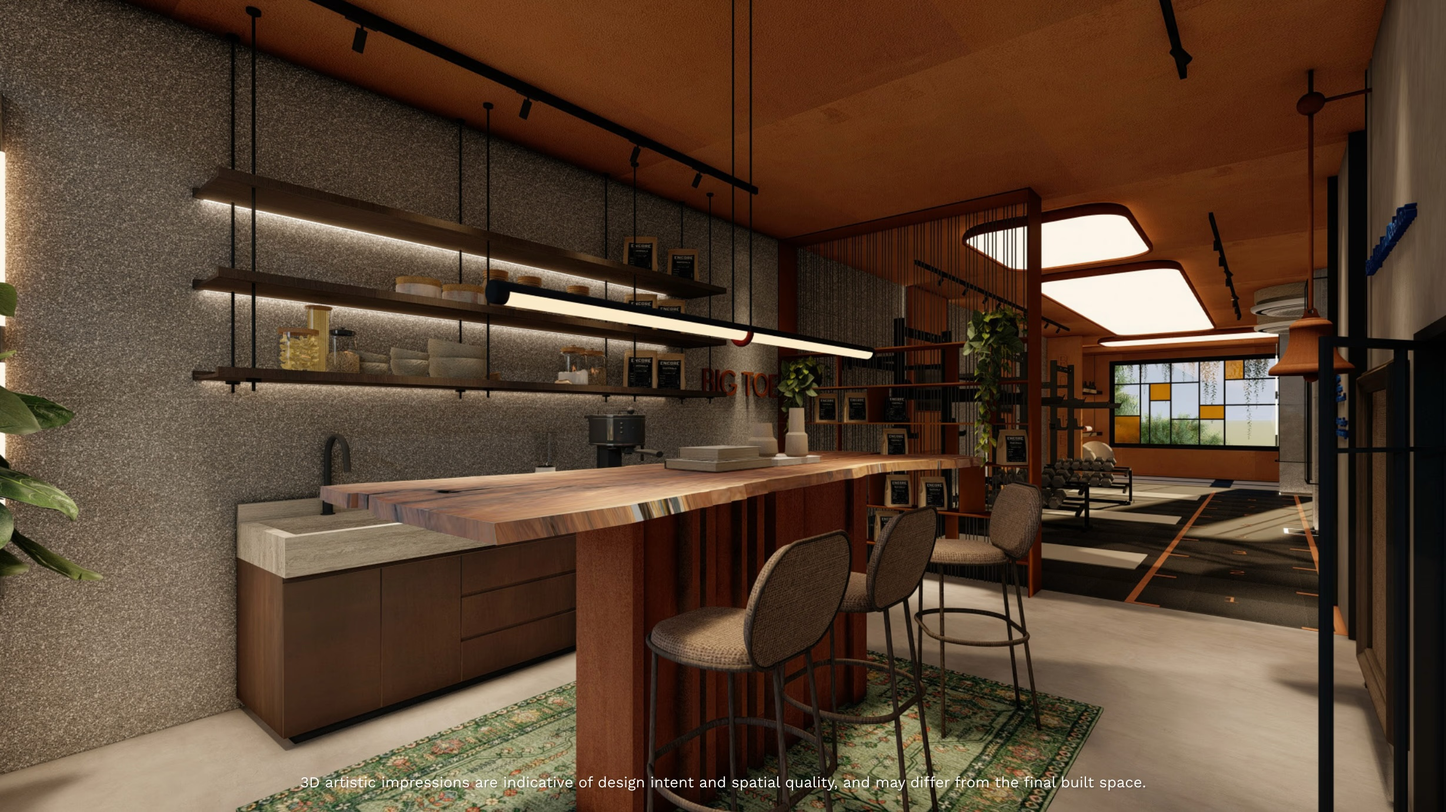
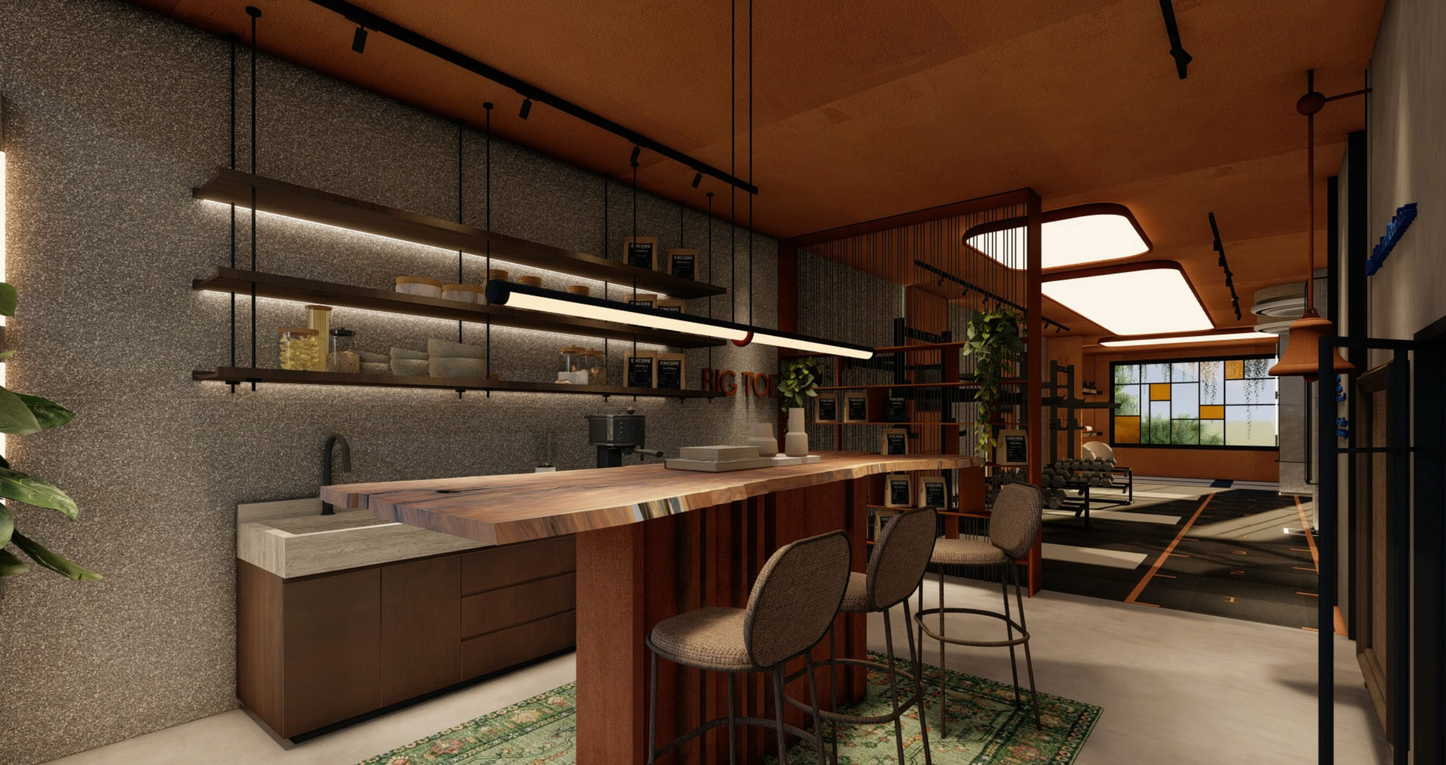
Crop the render captions; training floor on the coach card, hero keeps the coffee bar
- training-floor.jpg and coffee-bar-render.jpg: the "3D artistic
  impressions" caption cropped off the files (80px from the bottom).
- training-floor.jpg fills the "Your coach. Your plan." card and
  coffee-bar-render.jpg the "Keep the pizza." card; the hero is back on
  the coffee bar photograph.
- Both on the shot list as "replace with real photo".
- Phones request a wider image for these cards so the crop stays sharp.

diff --git a/components/home/HomeSections.tsx b/components/home/HomeSections.tsx
@@ -10,7 +10,6 @@ import { photoCard, softPill } from "@/components/site/styles";
 import { faq, faqGroups } from "@/content/faq";
 import { home } from "@/content/home";
 import { anchors } from "@/content/site";
-import space from "@/content/space-photos.json";
 import logoTagLight from "@/public/brand/logo-tag-light.png";
 
 /**
@@ -25,10 +24,9 @@ export function Hero() {
   const h = home.hero;
   return (
     <section className="relative h-svh min-h-150 overflow-hidden bg-navy text-offwhite">
-      {/* Phones: the frame runs 40% above the screen, so the middle of the photo (the coffee bar's logo wall, the
-          render's windows at the end of the floor) sits higher, clear of the words. */}
+      {/* Phones: the frame runs 40% above the screen, so the coffee bar's logo wall sits higher, clear of the words. */}
       <div className="absolute inset-x-0 -top-[40%] bottom-0 md:top-0">
-        <Photo shot={h.shot} space="hero" posClass={space.hero ? "object-[52%_50%] md:object-[50%_50%]" : "object-[16%_50%] md:object-[50%_55%]"} sizes="100vw" preload />
+        <Photo shot={h.shot} posClass="object-[16%_50%] md:object-[50%_55%]" sizes="100vw" preload />
       </div>
       {/* Solid navy behind the words, rising to clear at the top. */}
       <div aria-hidden className="absolute inset-x-0 bottom-0 h-[85%] bg-gradient-to-t from-navy from-45% via-navy/80 via-70% to-transparent md:h-[80%] md:from-35%" />
@@ -69,7 +67,7 @@ export function Pizza() {
     <section className="page-wrap section-space">
       <SectionText headline={p.headline} lines={[p.line]} />
       <FadeUp className={`mt-10 aspect-[4/5] md:mt-14 md:aspect-video ${photoCard}`}>
-        <Photo shot={p.shot} space="table" pos="60% 60%" sizes="(min-width: 1760px) 1600px, 100vw" />
+        <Photo shot={p.shot} space="table" pos="60% 60%" sizes="(min-width: 1760px) 1600px, (min-width: 768px) 100vw, 240vw" />
       </FadeUp>
     </section>
   );

diff --git a/content/site.ts b/content/site.ts
@@ -49,7 +49,7 @@ export const photo = {
   alt: "The BigToe coffee bar: the long wooden table and stools under pendant lamps, the training floor behind",
   /** BigToe's own 3D renders of the space (docs/photos/space/), for the slots where the space is the subject. */
   spaceAlt: {
-    hero: "The BigToe studio: the training floor, a render of the space",
+    coach: "The BigToe training floor, a render of the space",
     table: "The BigToe social table, a render of the space",
   },
   placeholder: (shot: string) => `Placeholder for the photo: ${shot}`,

diff --git a/components/method/MethodSections.tsx b/components/method/MethodSections.tsx
@@ -25,7 +25,8 @@ export function Coach() {
         <After>{c.after}</After>
       </SectionText>
       <FadeUp className={`aspect-[4/5] md:col-span-7 md:aspect-[5/4] ${photoCard}`}>
-        <Photo shot={c.shot} pos="70% 50%" sizes="(min-width: 768px) 60vw, 100vw" />
+        {/* The training-floor render until the real shot arrives: centred on the windows at the end of the floor. */}
+        <Photo shot={c.shot} space="coach" pos="56% 50%" sizes="(min-width: 768px) 60vw, 240vw" />
       </FadeUp>
     </section>
   );

diff --git a/components/site/Photo.tsx b/components/site/Photo.tsx
@@ -37,8 +37,7 @@ export function Photo({
       draggable={false}
       sizes={sizes}
       quality={75}
-      // A render's burned-in disclaimer runs along its bottom edge: enlarged 8% from the top, it falls outside the frame.
-      className={`object-cover ${render ? "origin-top scale-[1.08]" : ""} ${posClass ?? ""}`}
+      className={`object-cover ${posClass ?? ""}`}
       style={posClass ? undefined : { objectPosition: pos }}
     />
   );

diff --git a/CLAUDE.md b/CLAUDE.md
@@ -41,7 +41,7 @@ Built from the approved style tile (round seven, commit 6be62d3; the /style-tile
 - **Cards and photos:** 16px corners at 1440 (they scale with the spacing unit); the dials card off-white with a hairline navy border. Pills are fully rounded.
 - **Layout:** content in a column capped at 1600px and centred (`page-wrap`); the hero runs edge to edge; card rows run to the screen edge with the first card on the column (`page-edge`); `section-space` above and below every section.
 - **Logos:** only the hero shows the LogoTag (light, above the headline); the header, menu and footer show the plain BigToe logo.
-- **Photos:** every slot shows the coffee bar photo until the shoot, cropped per slot (`components/site/Photo.tsx`); the alt text names the shot it stands in for (`docs/shot-list.md`). **Space renders:** BigToe's own 3D renders go in `docs/photos/space/` (hero: `hero.*` or `training-floor.*`; table: `table.*` or `coffee-bar-render.*`), enlarged 8% from the top so their burned-in disclaimer falls outside the frame; `scripts/space-photos.mjs` (run by `dev` and `build`) copies them to `public/photos/space/` and writes `content/space-photos.json`, and the hero and the social-table card show them in place of the coffee bar. Renders only where the space is the subject, never for people.
+- **Photos:** every slot shows the coffee bar photo until the shoot, cropped per slot (`components/site/Photo.tsx`); the alt text names the shot it stands in for (`docs/shot-list.md`). **Space renders:** BigToe's own 3D renders live in `docs/photos/space/`, with the "3D artistic impressions" caption cropped off the files: `training-floor.jpg` fills the coach-and-member card ("Your coach. Your plan.") and `coffee-bar-render.jpg` the social-table card, until the real photos arrive (both on the shot list as "replace with real photo"). `scripts/space-photos.mjs` (run by `dev` and `build`) copies them to `public/photos/space/` and writes `content/space-photos.json`. Renders only where the space is the subject, never for people. The hero keeps the coffee bar photo.
 
 ### Header and menu (every page, `components/site/Header.tsx`)
 
@@ -78,13 +78,13 @@ Centred dialog on desktop, bottom sheet on phones. **Name and mobile number only
 
 Home (`content/home.ts`, `components/home/HomeSections.tsx`)
 
-1. **Hero:** a full-screen photo (the space render `hero.*` when present); a deep navy gradient, solid behind the words, clear at the top. The light LogoTag; "The second half of life should be **stronger than the first.**" on the darkest part; "One-to-one training for life after 40."; "Vasant Vihar, New Delhi." as a small plain caption at the bottom left. No button. (If the headline ever fights a new photo at 390x844, fall back to a frosted panel at about 15% behind the text block.)
+1. **Hero:** a full-screen photo (the coffee bar photo until the shoot); a deep navy gradient, solid behind the words, clear at the top. The light LogoTag; "The second half of life should be **stronger than the first.**" on the darkest part; "One-to-one training for life after 40."; "Vasant Vihar, New Delhi." as a small plain caption at the bottom left. No button. (If the headline ever fights a new photo at 390x844, fall back to a frosted panel at about 15% behind the text block.)
 2. **Why BigToe (`why-bigtoe`):** "We train for **a sport called life.**" / "A suitcase to lift. Unexpected stairs. A trip to say yes to." / "Build the strength for what comes next." Jump links: How we train, Meet the team. Text only.
-3. "Get stronger. **Keep the pizza.**" / "A healthier life shouldn't mean giving up the things you enjoy." / the social-table photo card (the space render `table.*` when present).
+3. "Get stronger. **Keep the pizza.**" / "A healthier life shouldn't mean giving up the things you enjoy." / the social-table photo card (the coffee bar render for now).
 
 How we train (`how-we-train`; `content/method.ts`, `components/method/MethodSections.tsx`)
 
-4. "Your **coach. Your plan.**" / "A dedicated coach guides you through every session." / "Your Reserve Audit sets the starting point." / "Your progress shapes what comes next." / "Mobility, strength and conditioning for the life you want to lead." Then the photo card (a coach guiding a member).
+4. "Your **coach. Your plan.**" / "A dedicated coach guides you through every session." / "Your Reserve Audit sets the starting point." / "Your progress shapes what comes next." / "Mobility, strength and conditioning for the life you want to lead." Then the photo card (a coach guiding a member; the training-floor render for now).
 5. "Know **your starting point.**" / "The Reserve Audit measures four dials." / "Your plan starts with the dial that needs the most attention." Then the dials card ("Your Reserve Audit", "Example").
 6. "Build **more than appearance.**" / "Capacity you can use outside the studio." Then three numbered rows, no cards or icons: 01 Muscle. What you're made of. / 02 Strength. What you can lift, push and carry. / 03 Power. How fast you can move when it counts.
 7. "Train **from the ground up.**" / "Bare feet. Free weights. Attention to movement." / "Mastering the Big Seven is what we teach." / "Squat. Hinge. Lunge. Push. Pull. Rotate. Walk or run." Then the bare-feet photo card.
@@ -143,7 +143,7 @@ Fetched from bigtoe.in on 17 Nov 2026 and published **word for word**, plain tex
 - [ ] Member quotes (`content/quotes.ts`): first name, age and written consent for each; card 1 is an illustrative draft and card 4 proposed wording (see the agreed copy), not yet members' words.
 - [ ] FAQ drafts to confirm: towels and water provided; monthly billing and pause rules.
 - [ ] The example dial numbers: the agreed copy's direction says "without invented scores"; the 18 and 19 Nov briefs keep the example numbers.
-- [ ] The renders' burned-in disclaimer ("3D artistic impressions are indicative of design intent…") is cropped out on the site: decide whether the page should say the hero and table images are renders.
+- [ ] The two renders on the page (coach card, table card) no longer carry their "3D artistic impressions" caption: decide whether the page should say they are renders.
 - [ ] Sherpa name spellings, and each Sherpa's OK to publish their line.
 - [ ] Jay's son has seen the story before it goes public.
 - [ ] Founder lines to confirm with each founder (Hard Rock Cafe India and Shiro; MSc, Middlesex University London; Nourish Organics; a career leading finance teams).

diff --git a/docs/shot-list.md b/docs/shot-list.md
@@ -6,15 +6,15 @@ Real studio photography, warm natural colour, men and women across the members' 
 
 **Consent:** a written yes, with first name and age, from every member shown. No member photo goes live without it.
 
-**Space renders:** until the real photos arrive, BigToe's own 3D renders can fill the two slots where the space is the subject (marked below): in place now: `docs/photos/space/training-floor.jpg` (hero) and `coffee-bar-render.jpg` (table). Never for people.
+**Space renders:** two slots show BigToe's own 3D renders for now (`docs/photos/space/`, caption cropped off): marked "replace with real photo" below. Renders are used only where the space is the subject, never for people. The hero keeps the coffee bar photo until its shoot.
 
 Every slot is cropped to two shapes (phones and desktop), so shoot with room around the subject.
 
 | # | Section | What the shot shows | Shape on the site | Notes |
 |---|---|---|---|---|
-| 1 | 1, hero | A real member training with a coach, the studio around them. Natural concentration, not a posed smile or extreme effort. | Full screen: tall on phones, wide on desktop | The words sit on the lower half (solid navy gradient): keep the faces in the upper half. Member: consent. Space render `hero.*` until then. |
-| 2 | 3, "Get stronger. Keep the pizza." | Members around the social table, talking and laughing. People first, food incidental; not a pizza close-up. | 4:5 on phones, 16:9 on desktop | Members: consent. Space render `table.*` until then. |
-| 3 | 4, "Your coach. Your plan." | One coach guiding one member, closer than the hero: the attention and interaction, not the equipment | 4:5 on phones, 5:4 on desktop | Distinct from the hero. Member: consent. |
+| 1 | 1, hero | A real member training with a coach, the studio around them. Natural concentration, not a posed smile or extreme effort. | Full screen: tall on phones, wide on desktop | The words sit on the lower half (solid navy gradient): keep the faces in the upper half. Member: consent. Coffee bar photo until then. |
+| 2 | 3, "Get stronger. Keep the pizza." | Members around the social table, talking and laughing. People first, food incidental; not a pizza close-up. | 4:5 on phones, 16:9 on desktop | Members: consent. **Replace with real photo:** shows the render `coffee-bar-render.jpg` for now. |
+| 3 | 4, "Your coach. Your plan." | One coach guiding one member, closer than the hero: the attention and interaction, not the equipment | 4:5 on phones, 5:4 on desktop | Distinct from the hero. Member: consent. **Replace with real photo:** shows the render `training-floor.jpg` for now. |
 | 4 | 7, "Train from the ground up." | Bare feet on the training floor | 4:5 on phones, 5:4 on desktop | Free weights in frame. |
 | 5 | 8, "Your goals." | The pledge partnership photo (the photo, not the poster) | 4:5 on phones, 16:9 on desktop | Crop out the signed card; both people's permission. |
 | 6 | 9, "The four of us." | The four founders together in the studio | 4:3 on phones, 16:9 on desktop | New. Relaxed, together, not lined up. |

diff --git a/docs/photos/space/README.md b/docs/photos/space/README.md
@@ -1,14 +1,12 @@
 # Space photos
 
-BigToe's own 3D renders of the studio (from the current bigtoe.in). Use them only where the space is the subject, never for people.
+BigToe's own 3D renders of the studio (from the current bigtoe.in), with the "3D artistic impressions" caption cropped off the bottom. Use them only where the space is the subject, never for people, and only until the real photos arrive (both are on the shot list as "replace with real photo"). The hero keeps the coffee bar photo.
 
 Each slot takes the first file found under one of its names:
 
 | File | Slot |
 |---|---|
-| `hero.jpg` or `training-floor.jpg` | The hero photo, until the real hero photo (a member training with a coach) arrives |
-| `table.jpg` or `coffee-bar-render.jpg` | The "Get stronger. Keep the pizza." card (the social table), until the real photo arrives |
+| `coach.jpg` or `training-floor.jpg` | The photo card under "Your coach. Your plan." |
+| `table.jpg` or `coffee-bar-render.jpg` | The "Get stronger. Keep the pizza." card |
 
-The renders carry a burned-in disclaimer along the bottom edge ("3D artistic impressions are indicative of design intent…"); the slots enlarge them 8% from the top so the strip falls outside the frame.
-
-`.jpeg`, `.png`, `.webp` and `.avif` work too. `npm run dev` and `npm run build` pick them up (`scripts/space-photos.mjs`); a slot with no file shows the coffee bar photo.
+`.jpeg`, `.png`, `.webp` and `.avif` work too. `npm run dev` and `npm run build` pick them up (`scripts/space-photos.mjs`); a slot with no file shows the coffee bar photo. Crop any caption off a new render before adding it.
